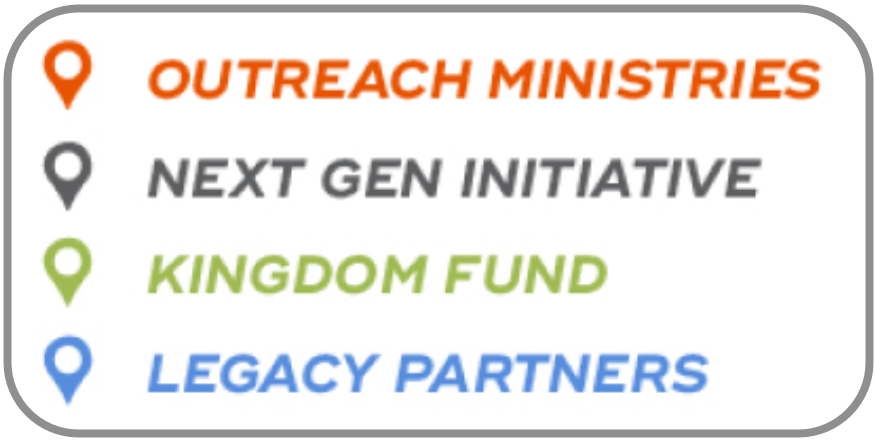
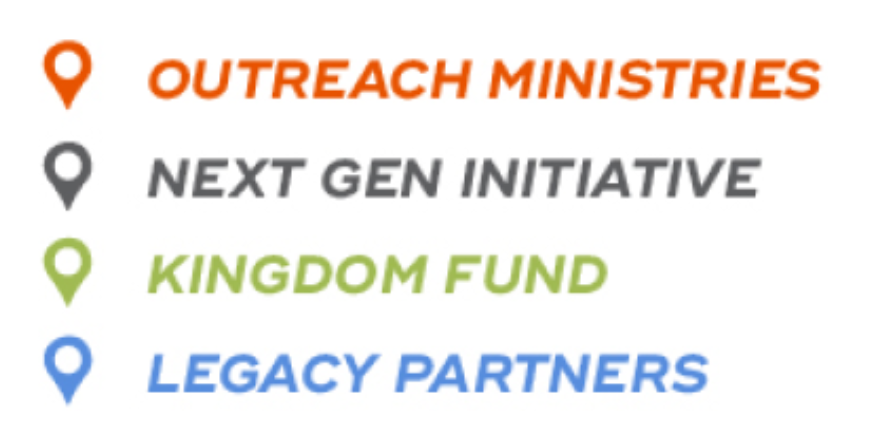
Updated pin sizes and removed border from key

Changed region(s): [[0.0617, 0.0, 1.0, 1.0], [0.0, 0.0294, 0.0617, 0.9706]]

diff --git a/ccmap.html b/ccmap.html
@@ -11,17 +11,17 @@
 
     <image id="map"  x="0" y="0"  href="map.svg"/> 
     
-    <image class="lp pin" xpos=".255" ypos=".335" height="10%" href="" name="Dave and Carol"></image>
-    <image class="inset pin" xpos=".235" ypos=".345" height="10%" href="" name="Sioux Falls Ministries"></image>
-    <image class="kf pin" xpos=".225" ypos=".36" height="10%" href="" name="Hope Harbor"></image>
-    <image class="or pin" xpos=".54" ypos=".32" height="10%" href="" name="Ukraine"></image>
-    <image class="lp pin" xpos=".2" ypos=".39" height="10%" href="" name="Tim and Sheila Steele"></image>
-    <image class="lp pin" xpos=".27" ypos=".355" height="10%" href="" name="Luke and Jen Olsen"></image>
-    <image class="lp pin" xpos=".075" ypos=".45" height="10%" href="" name="Jeff and Melissa Waddell"></image>
-    <image class="lp pin" xpos=".72" ypos=".5" height="10%" href="" name="Shayla Dick"></image>
-    <image class="lp pin" xpos=".455" ypos=".525" height="10%" href="" name="Jason and Linda Hopkins"></image>
-    <image class="lp pin" xpos=".49" ypos=".3" height="10%" href="" name="Peter and Laurel Olson"></image>
-    <image class="inset pin" xpos=".56" ypos=".54" height="10%" href="" name="Ethiopia Ministries"></image>
+    <image class="lp pin" xpos=".255" ypos=".335" height="4%" href="" name="Dave and Carol"></image>
+    <image class="inset pin" xpos=".235" ypos=".345" height="4%" href="" name="Sioux Falls Ministries"></image>
+    <image class="kf pin" xpos=".225" ypos=".36" height="4%" href="" name="Hope Harbor"></image>
+    <image class="or pin" xpos=".54" ypos=".32" height="4%" href="" name="Ukraine"></image>
+    <image class="lp pin" xpos=".2" ypos=".39" height="4%" href="" name="Tim and Sheila Steele"></image>
+    <image class="lp pin" xpos=".27" ypos=".355" height="4%" href="" name="Luke and Jen Olsen"></image>
+    <image class="lp pin" xpos=".075" ypos=".45" height="4%" href="" name="Jeff and Melissa Waddell"></image>
+    <image class="lp pin" xpos=".72" ypos=".5" height="4%" href="" name="Shayla Dick"></image>
+    <image class="lp pin" xpos=".455" ypos=".525" height="4%" href="" name="Jason and Linda Hopkins"></image>
+    <image class="lp pin" xpos=".49" ypos=".3" height="4%" href="" name="Peter and Laurel Olson"></image>
+    <image class="inset pin" xpos=".56" ypos=".54" height="4%" href="" name="Ethiopia Ministries"></image>
 
 
     <!-- <image class="or pin" xpos=".585" ypos=".53" height="10%" href="" name="edaw"></image>
@@ -46,22 +46,22 @@
     <svg id="local-svg">
         
         <image id="local-map"  x="-3%" y="-3%"  href="sfMap.svg"/> 
-    <image class="pin local-pin or" x="35%" y="13%" height="8%" href="" name="Empower (Fair Market)" ></image>
-    <image class="pin local-pin kf" x="36%" y="19%" height="8%" href="" name="SHIFT Garage" ></image>
-    <image class="pin local-pin kf" x="43%" y="19%" height="8%" href="" name="Renewal 58" ></image>
-    <image class="pin local-pin ng" x="45%" y="21%" height="8%" href="" name="Hope Coalition" ></image>
-    <image class="pin local-pin or" x="50%" y="22%" height="8%" href="" name="The Naomi Project" ></image>
-    <image class="pin local-pin or" x="40%" y="21%" height="8%" href="" name="Call To Freedom" ></image>
-    <image class="pin local-pin kf" x="40%" y="51%" height="8%" href="" name="Collision" ></image>
-    <image class="pin local-pin ng" x="48%" y="38%" height="8%" href="" name="ResGen" ></image>
-    <image class="pin local-pin or" x="49%" y="60%" height="8%" href="" name="Grace Team Jail Ministry" ></image>
-    <image class="pin local-pin or" x="58%" y="17%" height="8%" href="" name="The Banquet" ></image>
-    <image class="pin local-pin or" x="63%" y="19%" height="8%" href="" name="The Community Outreach" ></image>
-    <image class="pin local-pin ng" x="65%" y="19%" height="8%" href="" name="Lifeline Children's Services" ></image>
-    <image class="pin local-pin ng" x="48%" y="24%" height="8%" href="" name="Lifelight" ></image>
-    <image class="pin local-pin lp" x="48%" y="93%" height="8%" href="" name="Heather Carr" ></image>
-    <image class="pin local-pin lp" x="36%" y="62%" height="8%" href="" name="Sioux Falls Legacy Partners" ></image>
-    <image class="pin local-pin kf" x="34%" y="63%" height="8%" href="" name="The Gathering Well" ></image>
+    <image class="pin local-pin or" x="35%" y="13%" height="4%" href="" name="Empower (Fair Market)" ></image>
+    <image class="pin local-pin kf" x="36%" y="19%" height="4%" href="" name="SHIFT Garage" ></image>
+    <image class="pin local-pin kf" x="43%" y="19%" height="4%" href="" name="Renewal 58" ></image>
+    <image class="pin local-pin ng" x="45%" y="21%" height="4%" href="" name="Hope Coalition" ></image>
+    <image class="pin local-pin or" x="50%" y="22%" height="4%" href="" name="The Naomi Project" ></image>
+    <image class="pin local-pin or" x="40%" y="21%" height="4%" href="" name="Call To Freedom" ></image>
+    <image class="pin local-pin kf" x="40%" y="51%" height="4%" href="" name="Collision" ></image>
+    <image class="pin local-pin ng" x="48%" y="38%" height="4%" href="" name="ResGen" ></image>
+    <image class="pin local-pin or" x="49%" y="60%" height="4%" href="" name="Grace Team Jail Ministry" ></image>
+    <image class="pin local-pin or" x="58%" y="17%" height="4%" href="" name="The Banquet" ></image>
+    <image class="pin local-pin or" x="63%" y="19%" height="4%" href="" name="The Community Outreach" ></image>
+    <image class="pin local-pin ng" x="65%" y="19%" height="4%" href="" name="Lifeline Children's Services" ></image>
+    <image class="pin local-pin ng" x="48%" y="24%" height="4%" href="" name="Lifelight" ></image>
+    <image class="pin local-pin lp" x="48%" y="93%" height="4%" href="" name="Heather Carr" ></image>
+    <image class="pin local-pin lp" x="36%" y="62%" height="4%" href="" name="Sioux Falls Legacy Partners" ></image>
+    <image class="pin local-pin kf" x="34%" y="63%" height="4%" href="" name="The Gathering Well" ></image>
 
 
 
@@ -76,15 +76,15 @@
 <svg id="ethiopia-svg">
     <image id="ethiopia-map"  href="ethiopiaMap.svg"/> 
 
-        <image class="pin ethiopia-pin kf" x="36%" y="42%" height="8%" href="" name="M.K.A."></image>
-        <image class="pin ethiopia-pin kf" x="37.5%" y="42%" height="8%" href="" name="The Timothy Initiative"></image>
-        <image class="pin ethiopia-pin kf" x="34%" y="45.5%" height="8%" href="" name="Selamta"></image>
-        <image class="pin ethiopia-pin or" x="37%" y="46%" height="8%" href="" name="Kendra Michael"></image>
-        <image class="pin ethiopia-pin kf" x="38.5%" y="45.6%" height="8%" href="" name="Shamida"></image>
+        <image class="pin ethiopia-pin kf" x="36%" y="42%" height="4%" href="" name="M.K.A."></image>
+        <image class="pin ethiopia-pin kf" x="37.5%" y="42%" height="4%" href="" name="The Timothy Initiative"></image>
+        <image class="pin ethiopia-pin kf" x="34%" y="45.5%" height="4%" href="" name="Selamta"></image>
+        <image class="pin ethiopia-pin or" x="37%" y="46%" height="4%" href="" name="Kendra Michael"></image>
+        <image class="pin ethiopia-pin kf" x="38.5%" y="45.6%" height="4%" href="" name="Shamida"></image>
 
-        <image class="pin ethiopia-pin kf" x="32%" y="58%" height="8%" href="" name="Adams Thermal Foundation"></image>
-        <image class="pin ethiopia-pin or" x="31%" y="64%" height="8%" href="" name="Emmanual Disability Association and Workshop"></image>
-        <image class="pin ethiopia-pin lp" x="44%" y="48%" height="8%" href="" name="New Life International Joshua Ministry"></image>
+        <image class="pin ethiopia-pin kf" x="32%" y="58%" height="4%" href="" name="Adams Thermal Foundation"></image>
+        <image class="pin ethiopia-pin or" x="31%" y="64%" height="4%" href="" name="Emmanual Disability Association and Workshop"></image>
+        <image class="pin ethiopia-pin lp" x="44%" y="48%" height="4%" href="" name="New Life International Joshua Ministry"></image>
 
 
 

diff --git a/scripts.js b/scripts.js
@@ -45,7 +45,7 @@ function setMap(){
 
 function resize(){
     // pinSize=panZoom.getSizes().height/10;
-    pinSize=Math.min(window.innerHeight/13,window.innerWidth/16);
+    pinSize=Math.min(window.innerHeight/24,window.innerWidth/30);
 
 
     for(var i=0; i<pins.length; i++){
